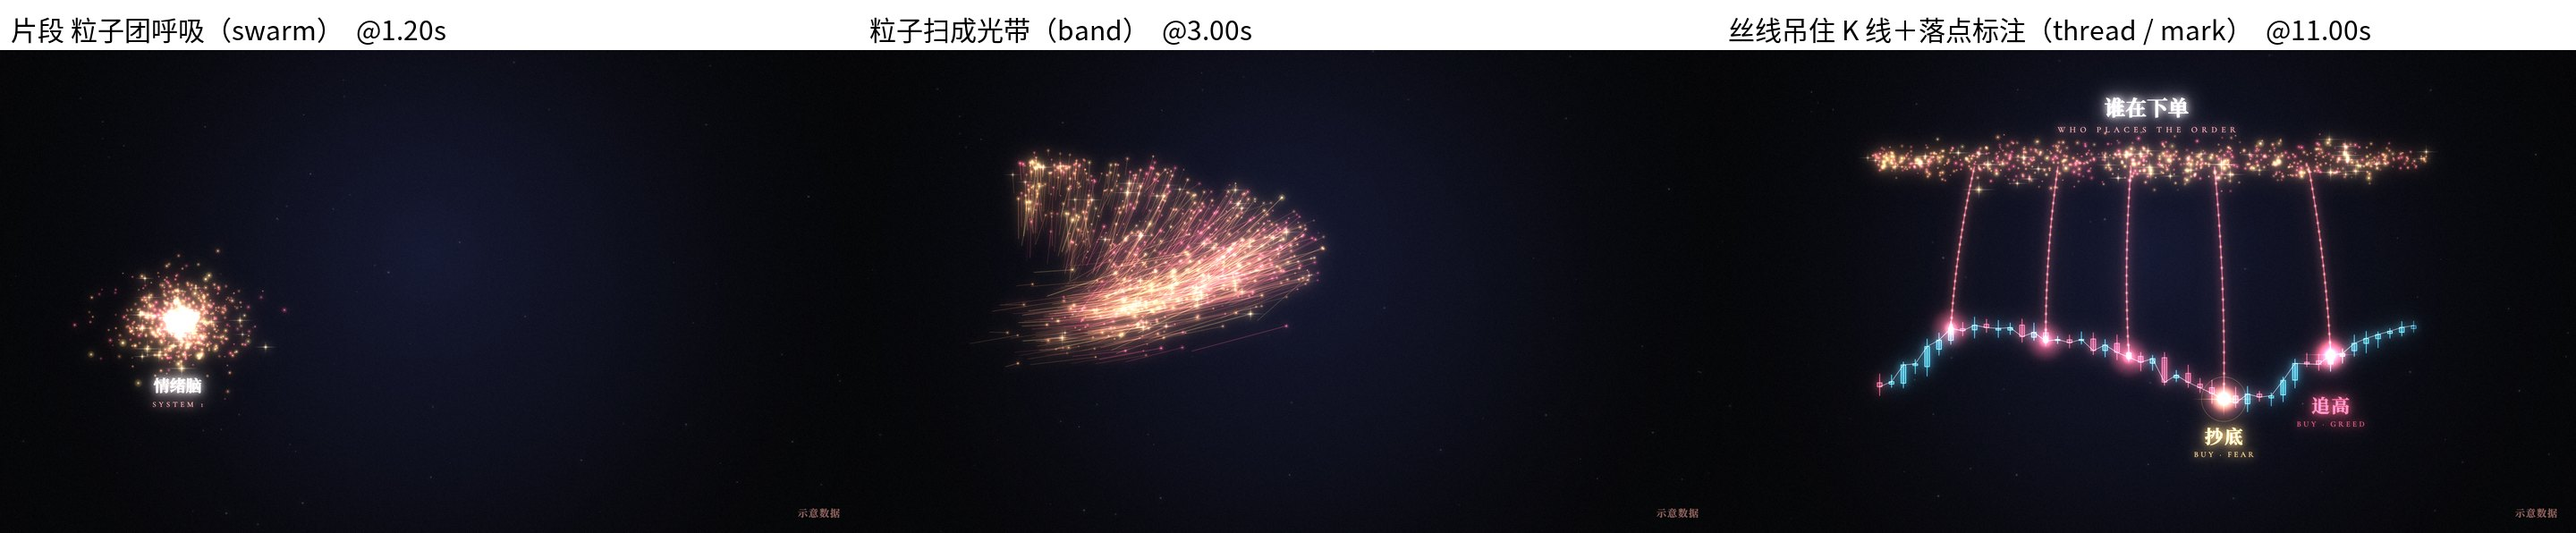
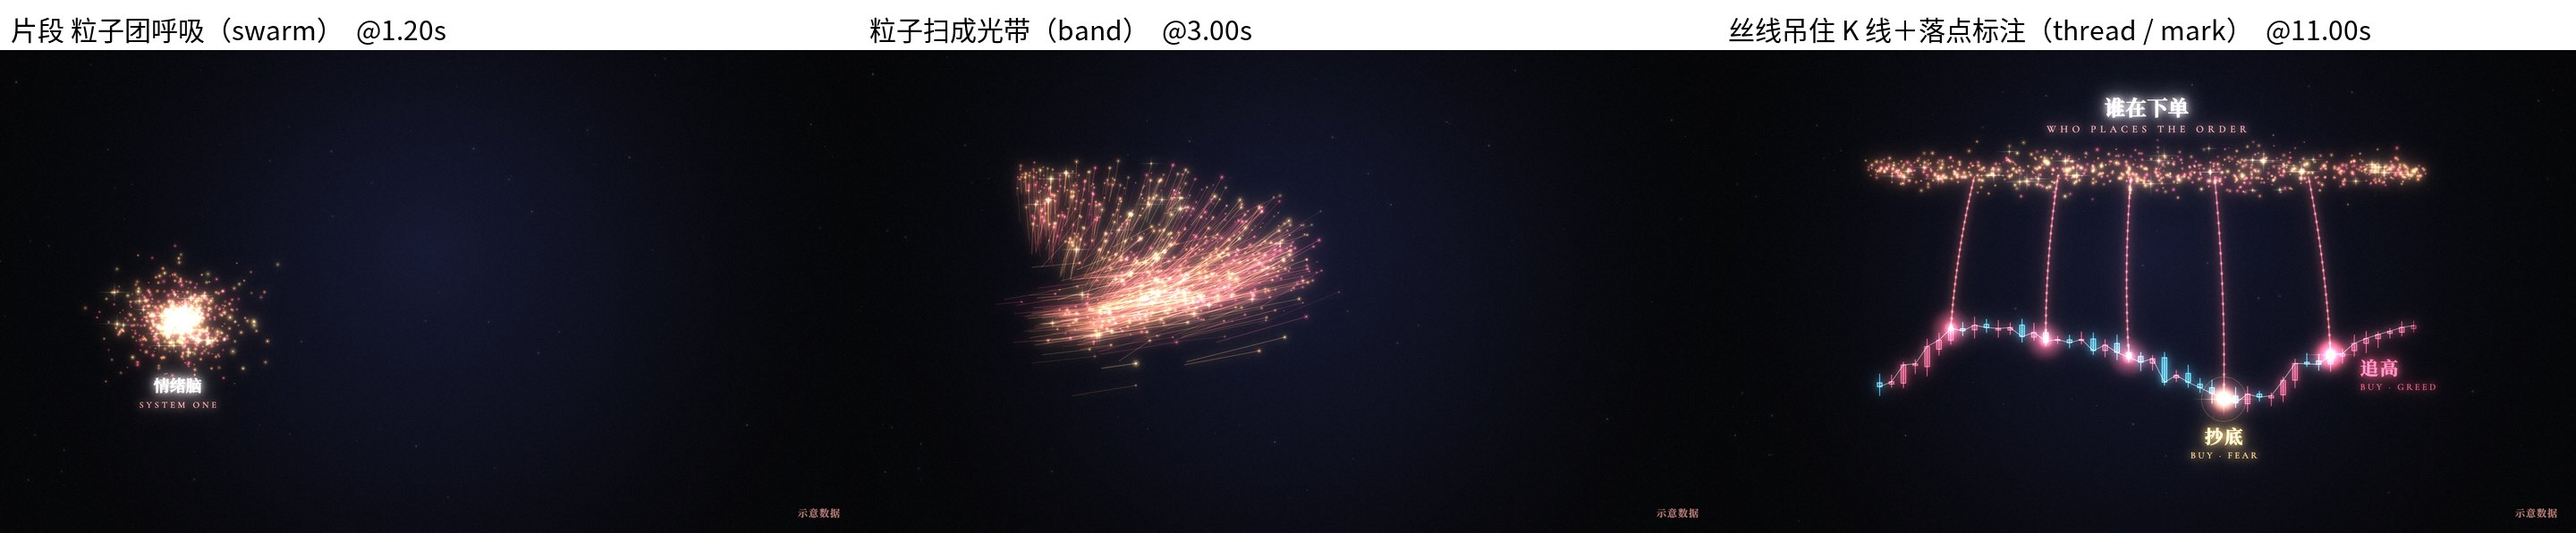
feat: t4 暗场光绘的涨跌色默认改成红涨
两轮审片都指出 K 线配色和 A 股习惯相反。作者定为默认红涨，和 t3
财经图表一致：4 套预设对调 up/down 两色；data.upDown 写 "us" 换回
原片的青涨，写其他值在 init 里报错。总览图和配色图按新配色重做。

diff --git a/scripts/engine/clips/t4_dark_glow.js b/scripts/engine/clips/t4_dark_glow.js
@@ -5,7 +5,7 @@
 // theme: { palette: 'ember'（默认，原片的粉橙＋青）| 'ice' | 'jade' | 'violet' | { base?: 预设名, 角色: '#hex' 或 [r,g,b], … } }
 //        角色：glow（底色中心光）· swarm1/swarm2/swarm3（粒子三色，占比约 5:3.5:1.5）· thread（丝线）· bead（丝线上流动的珠子）
 //              up / down（涨 / 跌）· accent / hot（两种标注色）· ink（标题）· sub（英文小字）
-// data:  { title?, en?（标题下的英文小字）, series?: [{o,h,l,c}]（K 线）或 [{value}]（只画线）, upDown?: 'cn'（红涨：交换 up/down 两色）,
+// data:  { title?, en?（标题下的英文小字）, series?: [{o,h,l,c}]（K 线）或 [{value}]（只画线）, upDown?: 'cn'（默认，红涨，和 t3 一致）| 'us'（交换 up/down 两色，青涨）,
 //          badge?（右下角标；不给 series 时自动生成示意数据并标「示意数据」）, seed? }
 // cues（at 秒）：swarm（粒子团出现，text/sub 是团的标签）· band（粒子从团飞成光带，约 1.9s 飞完）
 //         candle | line（数据从 at 开始逐根画出，dur 默认 2.6）· title（标题从模糊里浮出，text/sub 覆盖 data.title/en）
@@ -16,13 +16,13 @@ const { clamp, lerp } = U;
 const SERIF = '"NotoSerifSC-700"', LATIN = '"CormorantGaramond-500"';
 const PALETTES = {
   ember:  { glow: [28, 34, 74],  swarm1: [255, 160, 100], swarm2: [255, 92, 122],  swarm3: [255, 206, 120], thread: [255, 92, 122],  bead: [255, 160, 100],
-            up: [80, 205, 255],  down: [255, 92, 122],  accent: [255, 206, 120], hot: [255, 92, 122],  ink: [255, 243, 238], sub: [255, 170, 160] },
+            up: [255, 92, 122],  down: [80, 205, 255],  accent: [255, 206, 120], hot: [255, 92, 122],  ink: [255, 243, 238], sub: [255, 170, 160] },
   ice:    { glow: [14, 34, 66],  swarm1: [110, 200, 255], swarm2: [70, 120, 255],  swarm3: [225, 245, 255], thread: [110, 200, 255], bead: [225, 245, 255],
-            up: [110, 255, 205], down: [255, 120, 150], accent: [255, 222, 150], hot: [255, 120, 150], ink: [236, 246, 255], sub: [140, 200, 255] },
+            up: [255, 120, 150], down: [110, 255, 205], accent: [255, 222, 150], hot: [255, 120, 150], ink: [236, 246, 255], sub: [140, 200, 255] },
   jade:   { glow: [10, 40, 38],  swarm1: [80, 230, 170],  swarm2: [255, 200, 90],  swarm3: [235, 255, 220], thread: [80, 230, 170],  bead: [255, 200, 90],
-            up: [90, 240, 170],  down: [255, 105, 90],  accent: [255, 200, 90],  hot: [255, 105, 90],  ink: [240, 255, 245], sub: [150, 230, 190] },
+            up: [255, 105, 90],  down: [90, 240, 170],  accent: [255, 200, 90],  hot: [255, 105, 90],  ink: [240, 255, 245], sub: [150, 230, 190] },
   violet: { glow: [40, 20, 66],  swarm1: [255, 80, 200],  swarm2: [150, 110, 255], swarm3: [255, 230, 170], thread: [200, 120, 255], bead: [255, 120, 220],
-            up: [100, 200, 255], down: [255, 80, 160],  accent: [255, 230, 170], hot: [255, 80, 160],  ink: [250, 240, 255], sub: [210, 170, 255] },
+            up: [255, 80, 160],  down: [100, 200, 255],  accent: [255, 230, 170], hot: [255, 80, 160],  ink: [250, 240, 255], sub: [210, 170, 255] },
 };
 const rgba = (c, a) => `rgba(${c[0]},${c[1]},${c[2]},${a})`;
 const mixc = (a, b, k) => a.map((v, i) => Math.round(lerp(v, b[i], k)));
@@ -75,7 +75,8 @@ return {
   init(ctx) {
     const { W, H, u, box, data: d } = ctx, P = palette(ctx.theme.palette), R = rng(+d.seed || 20261010);
     const gauss = () => { let a = 0; while (!a) a = R(); return Math.sqrt(-2 * Math.log(a)) * Math.cos(2 * Math.PI * R()); };
-    if (d.upDown === 'cn') [P.up, P.down] = [P.down, P.up];
+    if (d.upDown != null && d.upDown !== 'cn' && d.upDown !== 'us') throw new Error(`t4_dark_glow：upDown 只能是 'cn'（红涨，默认）或 'us'（青涨），收到 ${JSON.stringify(d.upDown)}`);
+    if (d.upDown === 'us') [P.up, P.down] = [P.down, P.up];   // 预设按 A 股红涨写（和 t3 一致）；'us' 换回原片的青涨
     const LY = ctx.portrait ? { x0: .1, x1: .9, band: .215, title: .13, en: .152, c0: .40, c1: .54, cl: [.27, .36], focus: .35 }
                             : { x0: .198, x1: .802, band: .255, title: .145, en: .178, c0: .55, c1: .74, cl: [.208, .56], focus: .445 };
     const fs = ctx.portrait ? 1.25 : 1;   // 竖屏在手机上看：英文小字放大两成半

diff --git a/references/动画语法/t4_dark_glow.md b/references/动画语法/t4_dark_glow.md
@@ -37,14 +37,14 @@
 
 | 预设 | 粒子 | 丝线 | 涨 / 跌 | 适合 |
 |---|---|---|---|---|
-| `ember`（默认） | 橙、粉、金 | 粉 | 青 / 粉红 | 原片配色；情绪、欲望、危险 |
-| `ice` | 冰蓝、深蓝、白 | 冰蓝 | 薄荷绿 / 粉 | 理性、冷静、系统二 |
-| `jade` | 翠绿、金、浅绿 | 翠绿 | 绿 / 红 | 东方、财富、长期 |
-| `violet` | 品红、紫、金 | 紫 | 蓝 / 品红 | 科技、梦境、赛博 |
+| `ember`（默认） | 橙、粉、金 | 粉 | 粉红 / 青 | 原片配色（原片是青涨，`upDown: "us"` 可换回）；情绪、欲望、危险 |
+| `ice` | 冰蓝、深蓝、白 | 冰蓝 | 粉 / 薄荷绿 | 理性、冷静、系统二 |
+| `jade` | 翠绿、金、浅绿 | 翠绿 | 红 / 绿 | 东方、财富、长期 |
+| `violet` | 品红、紫、金 | 紫 | 品红 / 蓝 | 科技、梦境、赛博 |
 
 角色：`glow`（底的中心光）· `swarm1/swarm2/swarm3`（粒子三色）· `thread`（丝线）· `bead`（丝线上的珠子）· `up/down`（涨/跌）· `accent/hot`（两种标注色）· `ink`（标题）· `sub`（英文小字）。颜色写 `'#rrggbb'` 或 `[r,g,b]`；预设名、角色名、颜色格式写错都在启动时报错。
 
-涨跌色：预设沿用原片的「青涨、粉红跌」（国际惯例）。面向 A 股观众写 `data.upDown: "cn"`，两色互换成红涨。一支片里同一个颜色只讲一件事：粉红既是「跌」又是「情绪」时，口播要讲的正是「情绪带来下跌」，不然换一套配色。
+涨跌色：预设按 A 股的「红涨」写，和 t3 财经图表的默认一致（2026-10-11 作者定）。原片是「青涨、粉红跌」（国际惯例），面向海外观众或要还原原片时写 `data.upDown: "us"`，两色互换。`upDown` 写别的值会在启动时报错。一支片里同一个颜色只讲一件事：粉红既是「跌」又是「情绪」时，口播要讲的正是「情绪带来下跌」，不然换一套配色。
 
 ## ③ 运动轨迹
 
@@ -128,6 +128,6 @@
 | 星芒一样长，像重复贴图；底噪每 5 帧停一帧 | 星芒长度随机；颗粒每帧换位置 |
 | 竖屏「示意数据」在右下角，会被平台按钮压住 | 竖屏放右上，放大 |
 | 竖屏 K 线太密，缩成细线 | 竖屏实体加宽到间距的一半；卡里写明竖屏 series 不超过 30 根 |
-| （待定）涨跌配色和 A 股习惯相反 | 预设沿用原片的青涨粉跌，`upDown: "cn"` 可互换；要不要改成默认红涨，等作者定 |
+| 涨跌配色和 A 股习惯相反 | 作者定：预设改成默认红涨（和 t3 一致），`upDown: "us"` 换回青涨 |
 | （没改）标题和标签字体不统一 | 两轮审片都提过，核对后是同一款 NotoSerifSC-700：光晕把宋体细横画的笔锋糊掉，小字号、高亮处读起来像黑体 |
 

diff --git a/CHANGELOG.md b/CHANGELOG.md
@@ -28,3 +28,4 @@
 - 2026-10-10 · 第10种解说语法 t4 暗场光绘：拆解一支交易心理口播片（YouTube A3zC0OAxHSY）的「情绪脑」段，只学机制。新增参数化片段 clips/t4_dark_glow.js（加色混合＋两级光晕，cue：swarm / band / candle / line / title / thread / mark / out；4 套配色预设 ember / ice / jade / violet，可逐角色覆盖）、样例 examples/t4_dark_glow.json、语法卡 动画语法/t4_dark_glow.md、总览与配色图；字体新增思源宋体 NotoSerifSC-700 的 GB2312 子集。qa：确定性 ✓、跳变 0、均值 34ms/帧。同日独立审片 6.5/10 后修订：标注放大并让开 K 线、染色改可选、横扫降亮、版式下移、落点闪光提前并加起势、样例改 13s「谁在下单」，修订表见语法卡。release-manifest.json 未重新生成。
 
 - 2026-10-11 · t4 暗场光绘复审修订（横屏 8/10、竖屏 6/10）：竖屏版式上移，没给 safe.bottom 时下方三成留给字幕；标注依次试五个位置，放不下时画引线连回落点；英文小字放大（竖屏 ×1.25）；落点闪光提前到 0.62s；星芒长度随机、颗粒每帧刷新；竖屏示意数据角标放右上。修订表见语法卡。
+- 2026-10-11 · t4 涨跌色默认改成红涨（和 t3 一致），4 套预设对调 up/down；`upDown: "us"` 换回原片的青涨，其他值启动即报错。总览与配色图按新配色重做。

diff --git a/references/09-视频动画语法.md b/references/09-视频动画语法.md
@@ -222,7 +222,7 @@ spec 级 data：`title`、`unit`（副标题：指标与单位；放不下先缩
 
 #### t4_dark_glow（暗场光绘：粒子＋丝线＋发光 K 线）
 
-theme：`palette` 写预设名 `ember`（默认）`|ice|jade|violet`，或对象 `{base?, 角色: '#rrggbb' 或 [r,g,b]}` 逐个角色覆盖（角色见语法卡「配色」）。spec 级 data：`title`、`en`（标题下的英文小字，自动转大写）、`series?`（K 线 `[{o,h,l,c}]`，只画线可用 `[{value}]`；不给就按 `seed` 生成示意走势并标「示意数据」）、`upDown: "cn"`（交换涨跌两色）、`badge?`、`seed?`。每个 cue 都可选：只写 `candle`＋`mark` 就是一张发光 K 线。
+theme：`palette` 写预设名 `ember`（默认）`|ice|jade|violet`，或对象 `{base?, 角色: '#rrggbb' 或 [r,g,b]}` 逐个角色覆盖（角色见语法卡「配色」）。spec 级 data：`title`、`en`（标题下的英文小字，自动转大写）、`series?`（K 线 `[{o,h,l,c}]`，只画线可用 `[{value}]`；不给就按 `seed` 生成示意走势并标「示意数据」）、`upDown: "cn"`（红涨，默认，和 t3 一致）`|"us"`（青涨，原片配色）、`badge?`、`seed?`。每个 cue 都可选：只写 `candle`＋`mark` 就是一张发光 K 线。
 
 | kind | 字段 | 说明 | 示例 |
 |---|---|---|---|
